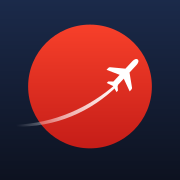
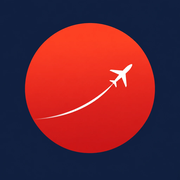
Add files via upload

Changed region(s): [[0.0, 0.1111, 1.0, 1.0]]

diff --git a/app.js b/app.js
@@ -958,6 +958,18 @@ const wxIcon = (name) => icon(name, 'wxi ' + name);
 const icon = (name, cls = '') => `<svg class="ico ${cls}" viewBox="0 0 256 256" fill="currentColor" aria-hidden="true">${ICONS[name] || ''}</svg>`;
 
 // ---------- views ----------
+// The flight that matters today, with the plane parked at the end of the line it's on.
+function flightRoute(now) {
+  const [out, back] = state.trip.flights;
+  const f = now.date < back.date ? out : back;
+  const start = toMin(f.depart);
+  const end = toMin(f.arrive);
+  const before = now.date < f.date || (now.date === f.date && now.min < start);
+  const after = now.date > f.date || (now.date === f.date && now.min >= end);
+  const at = before ? 8 : after ? 92 : 8 + ((now.min - start) / (end - start)) * 84;
+  return `<div class="route" style="--at:${at}%"><b>${esc(f.from)}</b><i></i><b>${esc(f.to)}</b></div>`;
+}
+
 function renderToday() {
   const now = tokyoNow();
   const { trip, days, flights } = state.trip;
@@ -974,7 +986,7 @@ function renderToday() {
         <div class="hero-sun"></div>
         <div class="eyebrow">출발까지</div>
         <div class="big">D-${left}</div>
-        <div class="route"><b>${esc(f.from)}</b><i></i><b>${esc(f.to)}</b></div>
+        ${flightRoute(now)}
         <div class="hero-meta">${esc(f.airline)} ${esc(f.no)} · ${esc(dayLabel(f.date))} ${esc(f.depart)} · 인천 T${esc(f.fromTerminal)}</div>
         ${state.trip.transfers.map((t) => `<div class="hero-meta">${itemIcon(t.icon, 'inline')}${esc(t.label)} ${esc(t.from)} ${esc(t.depart)} → ${esc(t.to)}</div>`).join('')}
         <div class="meter"><i style="width:${Math.round(((list.length - todo.length) / list.length) * 100)}%"></i></div>
@@ -1007,7 +1019,13 @@ function renderToday() {
   const next = upcoming[0];
   setHeader(`${dayIdx + 1}일차 · ${dayLabel(day.date)}`, stripEmoji(day.title), `일몰 ${day.sunset} · ${items.length}개 일정`);
 
-  let html = wxCard(day.date, now);
+  const back = state.trip.flights[1];
+  let html = `
+    <div class="hero route-hero">
+      ${flightRoute(now)}
+      <div class="hero-meta">${now.date === flights[0].date ? `${esc(flights[0].no)} · ${esc(flights[0].depart)} 출발 · ${esc(flights[0].arrive)} 도착` : `귀국 ${esc(dayLabel(back.date))} ${esc(back.depart)} · ${esc(back.no)}`}</div>
+    </div>`;
+  html += wxCard(day.date, now);
   html += leaveCard(items, now);
   html += lateCard(items, now);
   html += todoCard(now.date, '오늘 할 일', 3);
@@ -2103,7 +2121,7 @@ function fitTitle() {
 addEventListener('resize', fitTitle);
 
 // The version this running code belongs to; keep it equal to VERSION in sw.js.
-const APP_VERSION = 87;
+const APP_VERSION = 91;
 async function loadLatest() {
   try {
     const text = await (await fetch(`sw.js?t=${Date.now()}`, { cache: 'no-store' })).text();
@@ -2132,6 +2150,8 @@ function render() {
   const views = { today: renderToday, days: renderDays, explore: renderExplore, wallet: renderWallet, talk: renderTalk, check: renderCheck };
   $('#view').innerHTML = views[state.tab]() + versionLine();
   $('#top-add').hidden = state.tab !== 'explore';
+  $('#top-logo').hidden = state.tab !== 'today';
+  $('.top').classList.toggle('has-logo', state.tab === 'today');
   document.querySelectorAll('.tab').forEach((t) => t.setAttribute('aria-selected', String(t.dataset.tab === (state.tab === 'check' ? 'wallet' : state.tab))));
   if (state.tab === 'wallet') hydrateDocs();
   if (state.tab === 'explore' && state.ex.cat === 'log') hydrateLog();
@@ -2160,7 +2180,7 @@ async function copy(key) {
   catch { toast('복사하지 못했어요'); }
 }
 
-const ACTIONS = '[data-tab],[data-go],[data-day],[data-nav],[data-ja],[data-ja-ask],[data-item],[data-check],[data-del],[data-done],[data-rate],[data-finish-open],'
+const ACTIONS = '[data-tab],[data-go],[data-day],[data-nav],[data-ja],[data-ja-ask],[data-intro],[data-item],[data-check],[data-del],[data-done],[data-rate],[data-finish-open],'
   + '[data-close],[data-close-ja],[data-close-viewer],[data-copy],[data-copy-text],[data-call],[data-open-secret],[data-doc-view],[data-doc-add],[data-doc-new],[data-doc-pick],[data-viewer-del],'
   + '[data-translate],[data-trans-app],[data-swap],[data-phrase],[data-speak],[data-speak-text],[data-talk-sheet],[data-phrase-step],[data-wx-refresh],'
   + '[data-place-new],[data-place-create],[data-place-del],[data-place-plan],[data-plan-save],[data-item-edit],[data-edit-save],[data-edit-reset],[data-item-skip],[data-item-del],[data-day-route],[data-day-share],[data-place-save],[data-place-visit],[data-ex-cat],[data-ex-area],[data-ex-toggle],[data-update],[data-alarm-sheet],[data-place],[data-go-exp],[data-exp-view],[data-exp-del],[data-budget],[data-who],[data-sync-build],[data-sync-share],[data-sync-pick],'
@@ -2174,6 +2194,7 @@ document.addEventListener('click', async (e) => {
   else if (d.go) go(d.go);
   else if (d.day) { state.dayIndex = Number(d.day); store.set('day', state.dayIndex); render(); }
   else if (d.nav) navigate(d.nav);
+  else if ('intro' in d) playIntro();
   else if (d.ja) openJa(d.ja);
   else if (d.jaAsk) showPlaceJa(state.jaPlace.name, state.jaPlace.sub, Number(d.jaAsk));
   else if (d.item) openItem(d.item);
@@ -2448,6 +2469,21 @@ document.addEventListener('visibilitychange', () => {
   if (!['wallet', 'talk', 'check'].includes(state.tab)) render();
 });
 
+// Plays on first install (index.html), after an app update, and when the logo is tapped.
+let introTimer;
+function playIntro() {
+  const el = $('#intro');
+  introLine();
+  el.hidden = false;
+  clearTimeout(introTimer);
+  introTimer = setTimeout(() => { el.hidden = true; }, 1900);
+}
+function introOnUpdate() {
+  let seen;
+  try { seen = localStorage.getItem('introVer'); localStorage.setItem('introVer', APP_VERSION); } catch { return; }
+  if (seen && seen !== String(APP_VERSION) && !matchMedia('(prefers-reduced-motion: reduce)').matches) playIntro();
+}
+
 function introLine() {
   const line = $('#intro-line');
   if (!line) return;
@@ -2463,6 +2499,7 @@ async function init() {
     const res = await fetch('data/trip.json', { cache: 'no-cache' });
     state.trip = await res.json();
     introLine();
+    introOnUpdate();
   } catch {
     $('#view').innerHTML = '<div class="empty">일정 데이터를 불러오지 못했어요.<br>인터넷에 연결된 상태로 한 번 열어 주세요.</div>';
     return;

diff --git a/index.html b/index.html
@@ -15,47 +15,47 @@
   <link rel="apple-touch-icon" href="icons/apple-touch-icon.png">
   <link rel="icon" href="icons/icon-192.png">
   <link rel="preload" href="fonts/Pretendard.subset.woff2" as="font" type="font/woff2" crossorigin>
+  <link rel="preload" href="intro-bg.webp" as="image">
   <link rel="stylesheet" href="styles.css">
 </head>
 <body>
   <div id="intro" class="intro" hidden>
-    <svg viewBox="0 0 390 844" preserveAspectRatio="xMidYMid slice" aria-hidden="true">
+    <img class="in-bg" src="intro-bg.webp" alt="">
+    <svg viewBox="0 0 941 1672" preserveAspectRatio="xMidYMid slice" aria-hidden="true">
       <defs>
-        <linearGradient id="in-sky" x1="0" y1="0" x2="0" y2="1"><stop offset="0" stop-color="#1b2a4a"/><stop offset="1" stop-color="#0d1220"/></linearGradient>
-        <linearGradient id="in-sun" x1="0" y1="0" x2="0" y2="1"><stop offset="0" stop-color="#f7402a"/><stop offset=".7" stop-color="#d11f14"/><stop offset="1" stop-color="#f08a3c"/></linearGradient>
-        <linearGradient id="in-trail" x1="0" y1="0" x2="1" y2="0"><stop offset="0" stop-color="#fff" stop-opacity="0"/><stop offset=".35" stop-color="#fff" stop-opacity=".5"/><stop offset="1" stop-color="#fff"/></linearGradient>
+        <linearGradient id="in-trail" x1="0" y1="0" x2="1" y2="0"><stop offset="0" stop-color="#fff" stop-opacity="0"/><stop offset=".4" stop-color="#fff" stop-opacity=".55"/><stop offset="1" stop-color="#fff"/></linearGradient>
       </defs>
-      <rect width="390" height="844" fill="url(#in-sky)"/>
-      <circle class="in-sun" cx="195" cy="340" r="150" fill="url(#in-sun)"/>
       <g class="in-plane">
-        <path d="M13 433C109 429 193 391 260 332L263 337C198 401 111 440 13 437Z" fill="url(#in-trail)"/>
-        <path transform="translate(278 310) rotate(43) scale(.85)" fill="#fff" d="M0-57C5-57 8-51 8-43V-14L43 13Q45 15 45 18V25L8 10V36L19 46V52L0 46-19 52V46L-8 36V10L-45 25V18Q-45 15-43 13L-8-14V-43C-8-51-5-57 0-57Z"/>
-      </g>
-      <g class="in-land">
-        <path d="M0 590L60 560 150 470 176 452 204 450 232 472 330 566 390 596V844H0Z" fill="#26344f"/>
-        <path d="M150 470l26-18 28-2 28 22-14 8-12-8-10 16-12-14-12 12-8-14Z" fill="#eef0f5"/>
-        <path fill="#0d1220" d="M270 590V556h-16l16-10v-10h-12l18-12v-14l4-8 4 8v14l18 12h-12v10l16 10h-16v34ZM338 590l6-96h-6v-8l8-6 2-42 2-34 2 34 2 42 8 6v8h-6l6 96Z"/>
-        <path d="M0 640Q120 590 210 620T390 600V844H0Z" fill="#0d1220"/>
+        <path d="M160 813C324 807 467 742 580 642L586 649C476 759 328 825 160 820Z" fill="url(#in-trail)"/>
+        <path transform="translate(608 606) rotate(43) scale(1.25)" fill="#fff" d="M0-57C5-57 8-51 8-43V-14L43 13Q45 15 45 18V25L8 10V36L19 46V52L0 46-19 52V46L-8 36V10L-45 25V18Q-45 15-43 13L-8-14V-43C-8-51-5-57 0-57Z"/>
       </g>
     </svg>
     <div class="intro-text"><b>도쿄 여행</b><span id="intro-line"></span></div>
     <script>
       (function () {
         var el = document.getElementById('intro');
-        var close = function () { if (el.parentNode) el.remove(); };
+        el.addEventListener('click', function () { el.hidden = true; });
         try {
-          var today = new Date().toDateString();
-          if (matchMedia('(prefers-reduced-motion: reduce)').matches || localStorage.getItem('introDay') === today) return close();
-          localStorage.setItem('introDay', today);
-        } catch (e) { return close(); }
+          if (localStorage.getItem('introVer') || matchMedia('(prefers-reduced-motion: reduce)').matches) return;
+        } catch (e) { return; }
         el.hidden = false;
-        el.addEventListener('click', close);
-        setTimeout(close, 1900);
+        setTimeout(function () { el.hidden = true; }, 1900);
       })();
     </script>
   </div>
 
   <header class="top">
+    <button class="top-logo" id="top-logo" data-intro aria-label="인트로 보기" hidden>
+      <svg viewBox="76 66 360 360" aria-hidden="true">
+        <defs>
+          <linearGradient id="logo-sun" x2="0" y2="1"><stop stop-color="#f7402a"/><stop offset="1" stop-color="#c51d18"/></linearGradient>
+          <linearGradient id="logo-trail" x1="80" y1="354" x2="335" y2="246" gradientUnits="userSpaceOnUse"><stop stop-color="#fff" stop-opacity="0"/><stop offset=".4" stop-color="#fff" stop-opacity=".6"/><stop offset="1" stop-color="#fff"/></linearGradient>
+        </defs>
+        <circle cx="256" cy="246" r="176" fill="url(#logo-sun)"/>
+        <path d="M84 352C170 340 260 300 332 237L336 242C262 316 170 354 88 362Z" fill="url(#logo-trail)"/>
+        <path transform="translate(353 211) rotate(43)" fill="#fff" d="M0-57C5-57 8-51 8-43V-14L43 13Q45 15 45 18V25L8 10V36L19 46V52L0 46-19 52V46L-8 36V10L-45 25V18Q-45 15-43 13L-8-14V-43C-8-51-5-57 0-57Z"/>
+      </svg>
+    </button>
     <div class="top-eyebrow" id="top-eyebrow" hidden></div>
     <div class="top-title" id="top-title">도쿄 여행</div>
     <div class="top-sub" id="top-sub"></div>

diff --git a/styles.css b/styles.css
@@ -218,11 +218,8 @@ a { color: inherit; }
 .route i {
   flex: 1; height: 2px; position: relative;
   background: repeating-linear-gradient(90deg, rgba(244,241,234,.38) 0 6px, transparent 6px 11px);
-  -webkit-mask: linear-gradient(90deg, #000 calc(50% - 15px), transparent 0 calc(50% + 15px), #000 0);
-  mask: linear-gradient(90deg, #000 calc(50% - 15px), transparent 0 calc(50% + 15px), #000 0);
 }
-.route { position: relative; }
-.route::after { content: ""; position: absolute; left: 50%; top: 50%; width: 18px; height: 18px; transform: translate(-50%, -50%); background: var(--accent); -webkit-mask: var(--plane) center / contain no-repeat; mask: var(--plane) center / contain no-repeat; }
+.route i::after { content: ""; position: absolute; left: var(--at, 50%); top: 50%; width: 18px; height: 18px; transform: translate(-50%, -50%); background: var(--on-night); -webkit-mask: var(--plane) center / contain no-repeat; mask: var(--plane) center / contain no-repeat; }
 
 /* quick actions */
 .quick { display: grid; grid-template-columns: repeat(3, 1fr); gap: 8px; margin-top: 12px; }
@@ -851,16 +848,20 @@ ol.alarm-note { padding-left: 18px; }
 .ck-del::after, .title-add::after, .fx-pill::after { content: ""; position: absolute; inset: -8px; }
 
 /* Intro: first open of the day only. Sun rises, the plane crosses it, the app takes over. */
-.intro { position: fixed; inset: 0; z-index: 60; background: #0d1220; animation: intro-out .3s 1.5s forwards; }
+.intro { position: fixed; inset: 0; z-index: 60; background: #071230; animation: intro-out .3s 1.5s forwards; }
 .intro svg { position: absolute; inset: 0; width: 100%; height: 100%; }
-.in-sun { animation: in-sun .6s cubic-bezier(.2, .8, .2, 1) both; }
-.in-land { animation: in-land .5s .1s cubic-bezier(.2, .8, .2, 1) both; }
+.in-bg { position: absolute; inset: 0; width: 100%; height: 100%; object-fit: cover; animation: in-bg .7s cubic-bezier(.2, .8, .2, 1) both; }
 .in-plane { animation: in-plane .75s .35s cubic-bezier(.2, .7, .2, 1) both; }
 .intro-text { position: absolute; left: 0; right: 0; bottom: calc(env(safe-area-inset-bottom) + 72px); text-align: center; color: #f4f1ea; animation: in-text .4s .7s both; }
 .intro-text b { display: block; font-size: 30px; font-weight: 800; letter-spacing: -.02em; }
 .intro-text span { display: block; min-height: 24px; margin-top: 4px; font: 500 16px/24px var(--mono); color: rgba(244, 241, 234, .75); }
-@keyframes in-sun { from { transform: translateY(160px); opacity: .4; } }
-@keyframes in-land { from { transform: translateY(70px); } }
-@keyframes in-plane { from { transform: translate(-300px, 170px); opacity: 0; } }
+@keyframes in-bg { from { transform: scale(1.06); opacity: 0; } }
+@keyframes in-plane { from { transform: translate(-420px, 230px); opacity: 0; } }
 @keyframes in-text { from { opacity: 0; transform: translateY(8px); } }
 @keyframes intro-out { to { opacity: 0; visibility: hidden; } }
+.top-logo { position: absolute; left: 20px; bottom: 14px; width: 44px; height: 44px; padding: 0; }
+.top-logo svg { display: block; width: 100%; height: 100%; }
+.top.has-logo { padding-left: 74px; }
+.hero.route-hero { padding-top: 16px; padding-bottom: 14px; margin-bottom: 12px; }
+.route-hero .route { margin-top: 0; font-size: 20px; }
+.route-hero .hero-meta { margin-top: 8px; }

diff --git a/sw.js b/sw.js
@@ -1,10 +1,11 @@
 // Bump VERSION whenever app files change so phones pick up the new cache, and APP_VERSION in app.js with it.
 // Install fetches bypass the HTTP cache, so a new VERSION never stores stale files.
-const VERSION = 'trip-v87';
+const VERSION = 'trip-v91';
 const ASSETS = [
   './',
   './index.html',
   './styles.css',
+  './intro-bg.webp',
   './fonts/Pretendard.subset.woff2',
   './fonts/IBMPlexMono-500.woff2',
   './fonts/IBMPlexMono-700.woff2',

diff --git a/README.md b/README.md
@@ -67,4 +67,4 @@ python3 tools/make_audio.py
 
 본문은 Pretendard, 숫자는 IBM Plex Mono입니다. `fonts/`에 넣어 앱과 함께 오프라인 저장되며, Pretendard는 일반 한글 2,350자와 앱에 쓰인 글자만 담았습니다. 라이선스는 `fonts/OFL.txt`에 있습니다.
 
-앱 아이콘 원본은 `tools/icon.svg`입니다. 인트로는 하루 첫 실행 때만 나오며 `index.html`에 있습니다.
+앱 아이콘 원본은 `tools/icon.svg`입니다. 인트로는 최초 실행, 앱 업데이트 후, 오늘 탭 로고를 누를 때 나오며 `index.html`에 있습니다.
